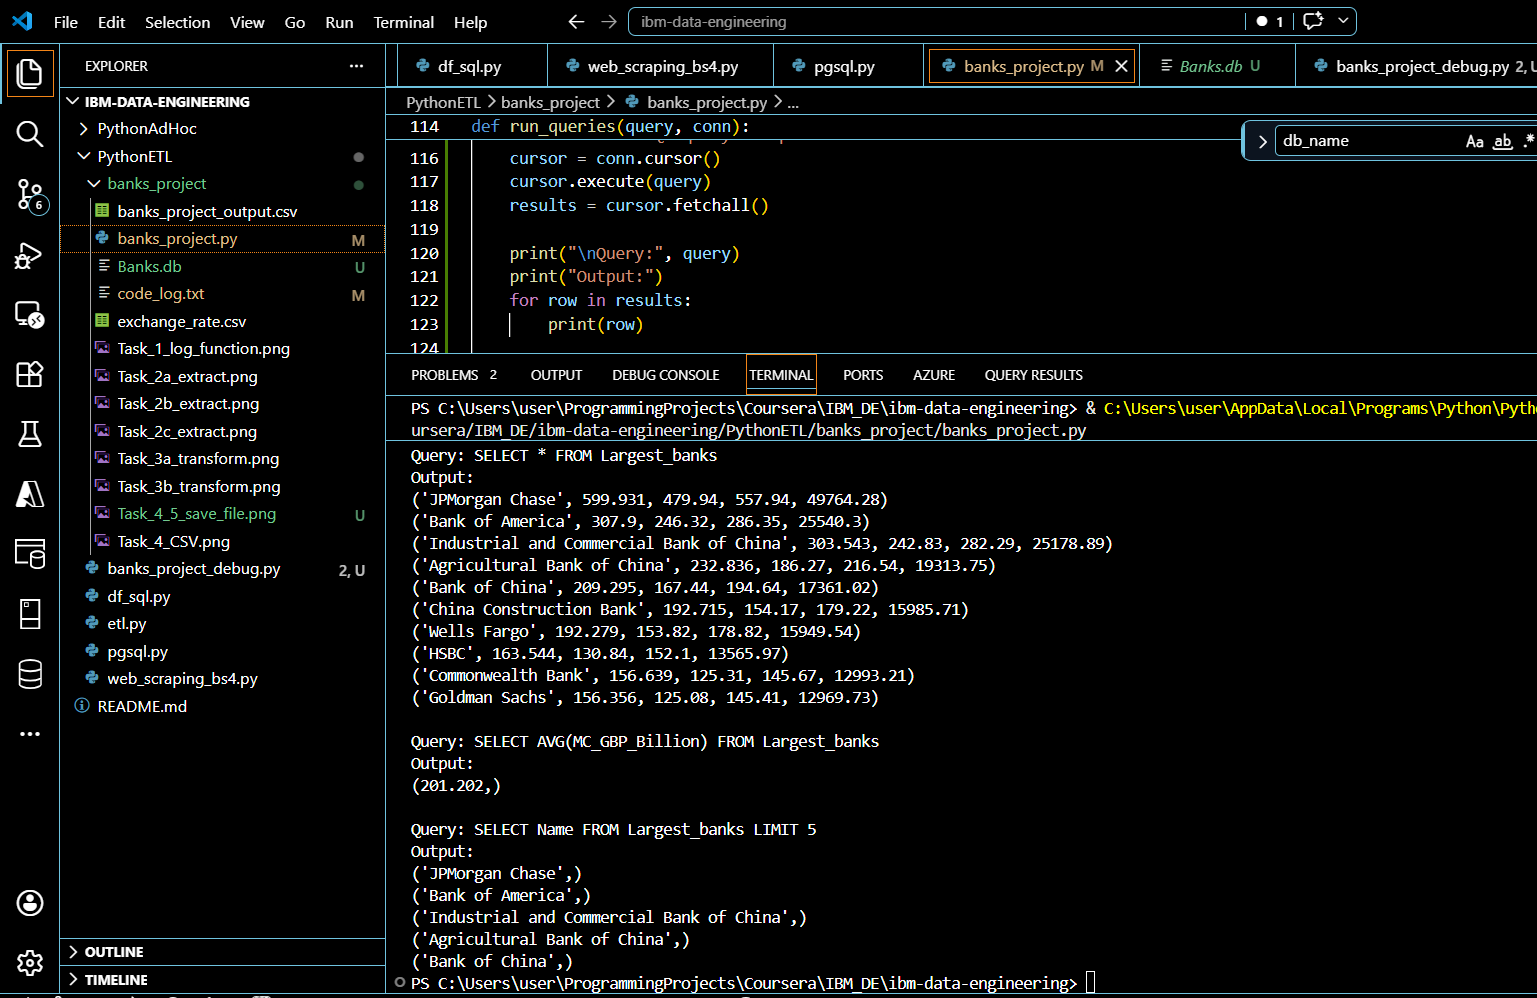
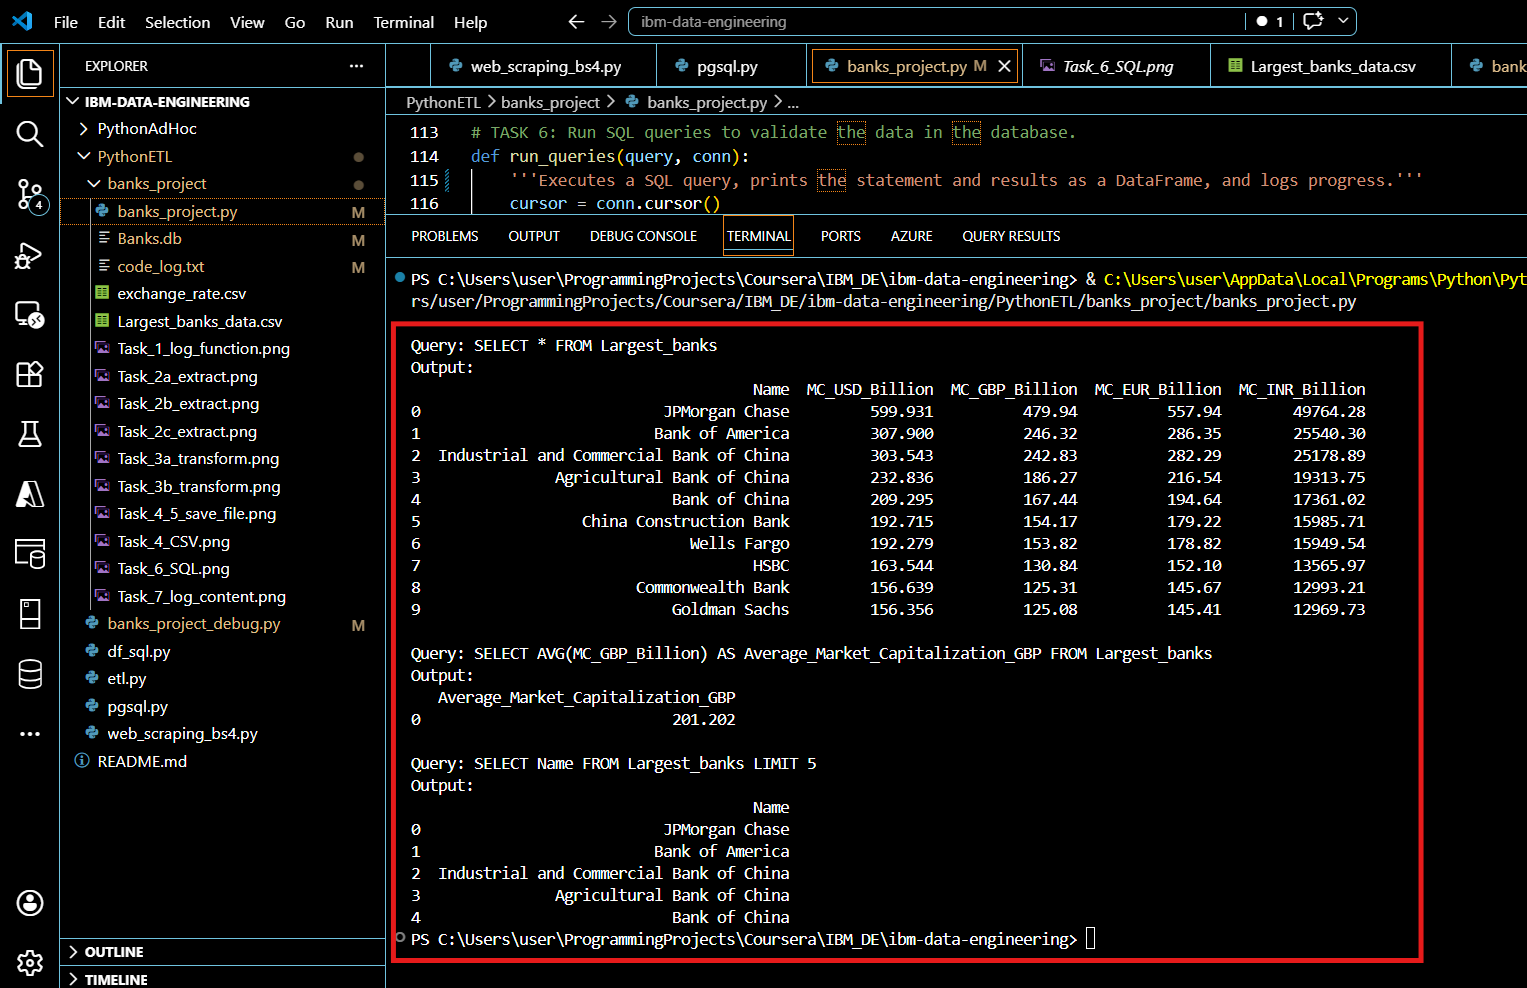
Re-submitted the project and took 100

diff --git a/PythonETL/banks_project_debug.py b/PythonETL/banks_project_debug.py
@@ -1,7 +1,13 @@
-# Task 1: Defining log function at the top to ensure it's available for all subsequent code
+import requests
+from bs4 import BeautifulSoup
+import pandas as pd
+import numpy as np
+from datetime import datetime
+import sqlite3
+from io import StringIO
 
-log_file = "C:/Users/user/ProgrammingProjects/Coursera/IBM_DE/ibm-data-engineering/PythonETL/banks_project/code_log.txt"
 
+# TASK 1: Defining log function at the top to ensure it's available for all subsequent code
 def log_progress(message):
     '''Logs the progress of the ETL code execution to a text file.'''
     timestamp_format = '%Y-%b-%d-%H:%M:%S'  # Year-Month-Day-Hour-Minute-Second
@@ -11,23 +17,23 @@ def log_progress(message):
         f.write(timestamp + " : " + message + "\n")
 
 
-import requests
-from bs4 import BeautifulSoup
-import pandas as pd
-import numpy as np
-from datetime import datetime
-from io import StringIO
 
-
-wiki_url = "https://en.wikipedia.org/wiki/List_of_largest_banks"
-headers = {"User-Agent": "Mozilla/5.0"}
+folder_path  = "C:/Users/user/ProgrammingProjects/Coursera/IBM_DE/ibm-data-engineering/PythonETL/banks_project"
+log_file     = f"{folder_path}/code_log.txt"
+exchange_csv = f"{folder_path}/exchange_rate.csv"
+output_csv   = f"{folder_path}/Largest_banks_data.csv"
+db_name      = f"{folder_path}/Banks.db"
+table_name   = "Largest_banks"
+wiki_url     = "https://en.wikipedia.org/wiki/List_of_largest_banks"
+headers      = {"User-Agent": "Mozilla/5.0"}
 
 log_progress("Preliminaries complete. Initiating ETL process...")
 
 
 
-
+# TASK 2: Extract function to scrape the Wikipedia page and return a cleaned DataFrame with the top 10 banks by market capitalization.
 def extract(url=wiki_url):
+    log_progress("Starting data extraction from Wikipedia...")
     res = requests.get(url, headers=headers)
     soup = BeautifulSoup(res.text, "html.parser")
 
@@ -40,7 +46,7 @@ def extract(url=wiki_url):
     df.columns = [' '.join([str(c) for c in col if c]) if isinstance(col, tuple) else str(col) for col in df.columns]
     df.columns = [c.strip() for c in df.columns]
 
-    print("Extracted columns:", df.columns.tolist())  # Debug
+    # print("Extracted columns:", df.columns.tolist())  # Debug
 
     # Dynamically detect columns
     name_col = [c for c in df.columns if "Bank" in c or "Name" in c][0]
@@ -53,59 +59,98 @@ def extract(url=wiki_url):
     df["MC_USD_Billion"] = df["MC_USD_Billion"].astype(str).str.replace(r"\n", "", regex=True)
     df["MC_USD_Billion"] = df["MC_USD_Billion"].astype(float)
 
+    log_progress("Data extraction from Wikipedia completed.")
+
     return df.head(10)
 
-print(extract(url=wiki_url))
+# print(extract(url=wiki_url))
 
 
-def transform(df, exchange_csv):
-    log_progress("Transformation started")
-    rates = pd.read_csv(exchange_csv)
-    rates_dict = dict(zip(rates["Currency"], rates["Rate"]))
 
-    df["MC_GBP_Billion"] = (df["MC_USD_Billion"] * rates_dict["GBP"]).round(2)
-    df["MC_EUR_Billion"] = (df["MC_USD_Billion"] * rates_dict["EUR"]).round(2)
-    df["MC_INR_Billion"] = (df["MC_USD_Billion"] * rates_dict["INR"]).round(2)
 
-    log_progress("Transformation completed")
+# TASK 3: Transform function to convert market capitalization from USD to GBP and EUR using exchange rates from a CSV file.
+def transform(df, csv_path):
+    '''Transforms the dataframe by adding GBP, EUR, INR columns.'''
+    # Read exchange rates into a dictionary
+    log_progress("Data transformation started...")
+    rates = pd.read_csv(csv_path)
+    exchange_rate = rates.set_index("Currency").to_dict()["Rate"]
+
+    # Ensure values are floats
+    gbp_rate = float(exchange_rate["GBP"])
+    eur_rate = float(exchange_rate["EUR"])
+    inr_rate = float(exchange_rate["INR"])
+
+    # Add new columns, rounded to 2 decimals
+    df["MC_GBP_Billion"] = [np.round(x * gbp_rate, 2) for x in df["MC_USD_Billion"]]
+    df["MC_EUR_Billion"] = [np.round(x * eur_rate, 2) for x in df["MC_USD_Billion"]]
+    df["MC_INR_Billion"] = [np.round(x * inr_rate, 2) for x in df["MC_USD_Billion"]]
+
+    # Log entry
+    log_progress("Data transformation complete.")
+
     return df
 
 
-def load_to_csv(df, path):
-    log_progress("Loading to CSV started")
-    df.to_csv(path, index=False)
-    log_progress("Loading to CSV completed")
+# TASK 4: Load function to save the transformed DataFrame to a CSV file.
+def load_to_csv(df, output_path):
+    '''Loads the transformed dataframe to a CSV file.'''
+    log_progress("Loading to CSV started...")
+    df.to_csv(output_path, index=False)
+    log_progress("Data saved to CSV file.")
 
 
 
-def load_to_db(df, db_name, table_name):
-    log_progress("Loading to DB started")
-    conn = sqlite3.connect(db_name)
+# TASK 5: Load function to save the transformed DataFrame to a SQLite database.
+def load_to_db(df, conn, table_name):
+    '''Loads the transformed dataframe into a SQLite database table.'''
+    log_progress("Loading to Database started...")
     df.to_sql(table_name, conn, if_exists="replace", index=False)
-    conn.close()
-    log_progress("Loading to DB completed")
+    log_progress("Data loaded to Database as a table.")
 
 
 
-def run_queries(db_name, table_name):
-    log_progress("Running queries started")
-    conn = sqlite3.connect(db_name)
-    cur = conn.cursor()
+# TASK 6: Run SQL queries to validate the data in the database.
+def run_queries(query, conn):
+    '''Executes a SQL query and prints the statement and results.'''
+    log_progress("Running SQL query...")
+    cursor = conn.cursor()
+    cursor.execute(query)
+    results = cursor.fetchall()
 
-    # Example queries
-    print(cur.execute(f"SELECT * FROM {table_name}").fetchall())
-    print(cur.execute(f"SELECT AVG(MC_USD_Billion) FROM {table_name}").fetchone())
+    print("\nQuery:", query)
+    print("Output:")
+    for row in results:
+        print(row)
 
-    conn.close()
-    log_progress("Running queries completed")
+    log_progress("Process Complete.")
+    return results
 
 
-# print(wiki_res.__class__)
-# print(wiki_res.status_code)
+extracted_df = extract(url=wiki_url)
+transformed_df = transform(df=extracted_df, csv_path=exchange_csv)
+load_to_csv(df=transformed_df, output_path=output_csv)
 
-# If successful, parse the HTML
-# if wiki_res.status_code == 200:
-#    soup = BeautifulSoup(wiki_res.text, "html.parser")
-#    tables = soup.find_all("table", {"class": "wikitable"})
-#    print(tables[0].prettify()[:500])  # Print the first 500 characters of the first table
-#    print(f"Found {len(tables)} tables")
+
+# Initiate SQLite connection
+log_progress("Initiating SQL Connection...")
+db_conn = sqlite3.connect(database=db_name)
+log_progress("SQL Connection established.")
+
+# Load dataframe into DB
+load_to_db(df=transformed_df, conn=db_conn, table_name=table_name)
+
+
+# 1. Print the contents of the entire table
+run_queries("SELECT * FROM Largest_banks", conn=db_conn)
+
+# 2. Print the average market capitalization of all the banks in Billion GBP
+run_queries("SELECT AVG(MC_GBP_Billion) FROM Largest_banks", conn=db_conn)
+
+# 3. Print only the names of the top 5 banks
+run_queries("SELECT Name FROM Largest_banks LIMIT 5", conn=db_conn)
+
+
+# Close connection when done
+db_conn.close()
+log_progress("Server Connection closed.")

diff --git a/PythonETL/banks_project/banks_project.py b/PythonETL/banks_project/banks_project.py
@@ -112,19 +112,22 @@ def load_to_db(df, conn, table_name):
 
 # TASK 6: Run SQL queries to validate the data in the database.
 def run_queries(query, conn):
-    '''Executes a SQL query and prints the statement and results.'''
-    log_progress("Running SQL query...")
+    '''Executes a SQL query, prints the statement and results as a DataFrame, and logs progress.'''
     cursor = conn.cursor()
     cursor.execute(query)
     results = cursor.fetchall()
 
+    # Convert results into a DataFrame for readability
+    df_results = pd.DataFrame(results, columns=[desc[0] for desc in cursor.description])
+
     print("\nQuery:", query)
     print("Output:")
-    for row in results:
-        print(row)
+    print(df_results)
 
-    log_progress("Process Complete.")
-    return results
+    # Log the executed query
+    log_progress(f"Executed query: {query}")
+
+    return df_results
 
 
 extracted_df = extract(url=wiki_url)
@@ -145,7 +148,7 @@ load_to_db(df=transformed_df, conn=db_conn, table_name=table_name)
 run_queries("SELECT * FROM Largest_banks", conn=db_conn)
 
 # 2. Print the average market capitalization of all the banks in Billion GBP
-run_queries("SELECT AVG(MC_GBP_Billion) FROM Largest_banks", conn=db_conn)
+run_queries("SELECT AVG(MC_GBP_Billion) AS Average_Market_Capitalization_GBP FROM Largest_banks", conn=db_conn)
 
 # 3. Print only the names of the top 5 banks
 run_queries("SELECT Name FROM Largest_banks LIMIT 5", conn=db_conn)
